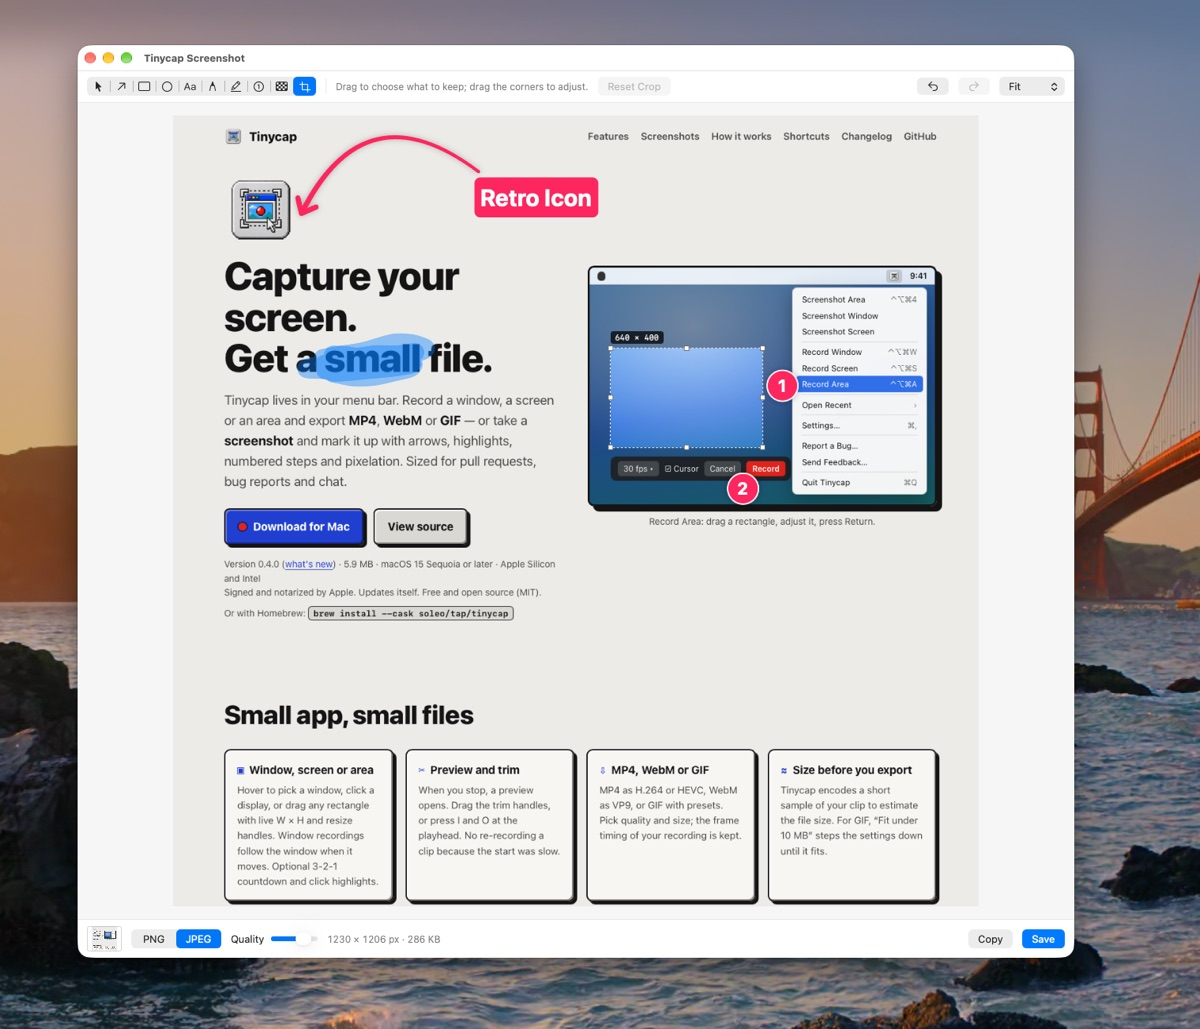
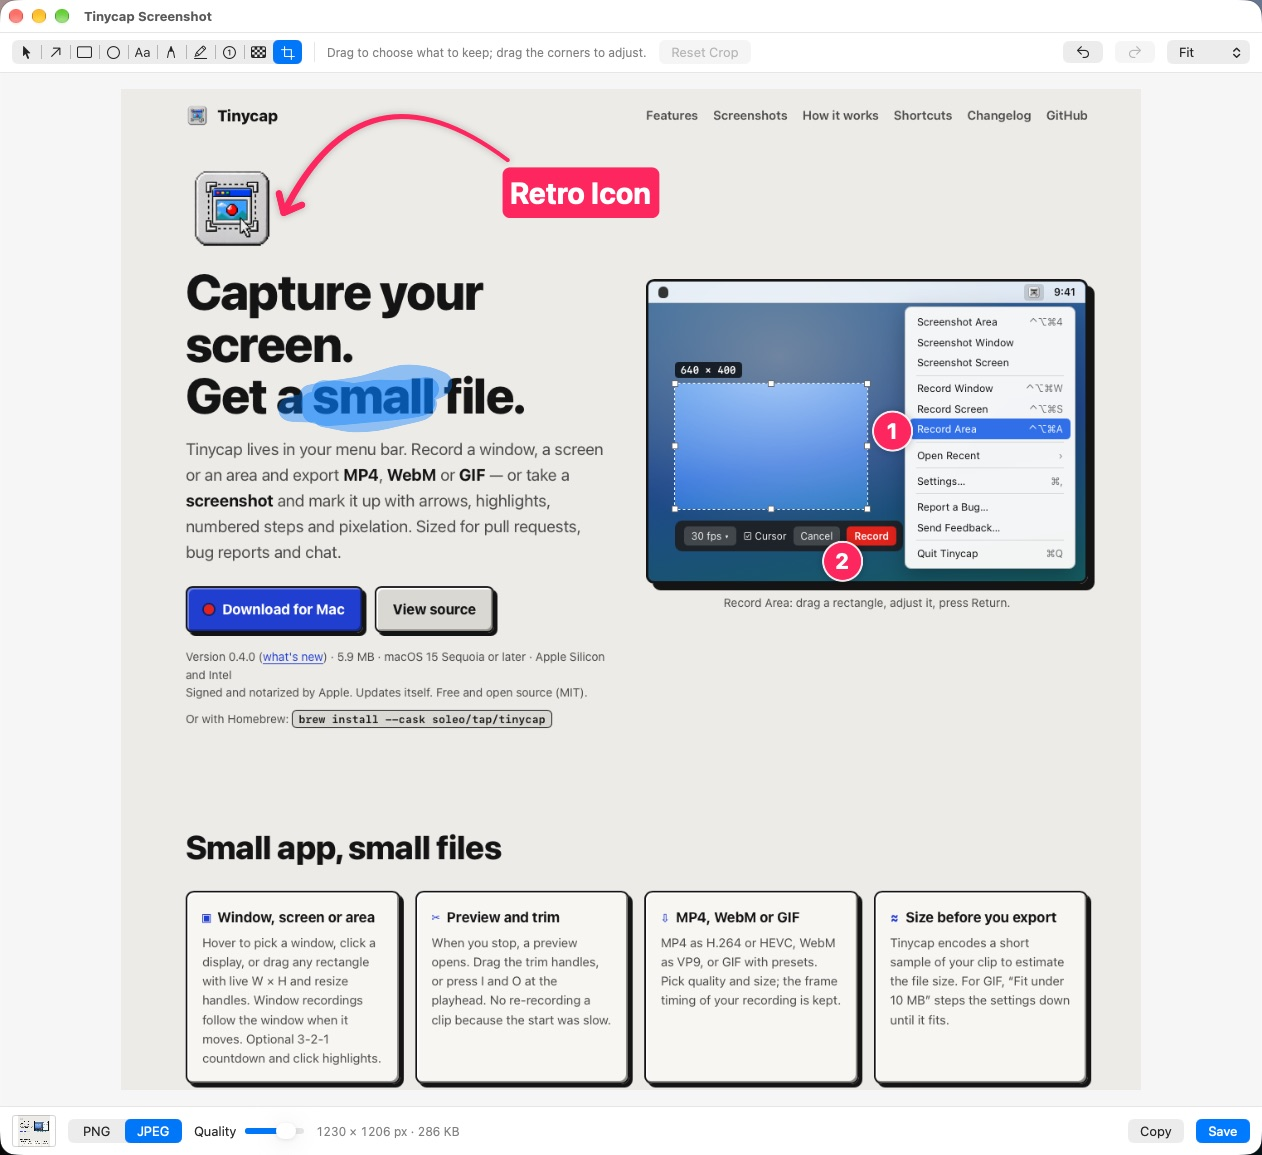
Crop the wallpaper out of the editor screenshot
The desktop wallpaper around the editor window took up a good part of the
image and made the markup small at the column width. The image is now just
the window (1262x1155, 220 KB). The src carries ?v=2 so browsers drop the
cached uncropped version.

diff --git a/index.html b/index.html
@@ -134,7 +134,7 @@
       <h2>Screenshots you can mark up</h2>
       <div class="split shots">
         <figure class="markup">
-          <img src="assets/screenshot-editor.jpg" width="1200" height="1029" loading="lazy" decoding="async"
+          <img src="assets/screenshot-editor.jpg?v=2" width="1262" height="1155" loading="lazy" decoding="async"
                alt="Tinycap's screenshot editor showing the Tinycap website marked up with a curved pink arrow pointing at the app icon, a pink Retro Icon label, a blue highlighter stroke over the word small, and numbered steps 1 and 2 on the Record Area menu item and the Record button">
           <figcaption>The screenshot editor: a bent arrow, a label, a highlight and numbered steps, ready for ⌘C.</figcaption>
         </figure>
